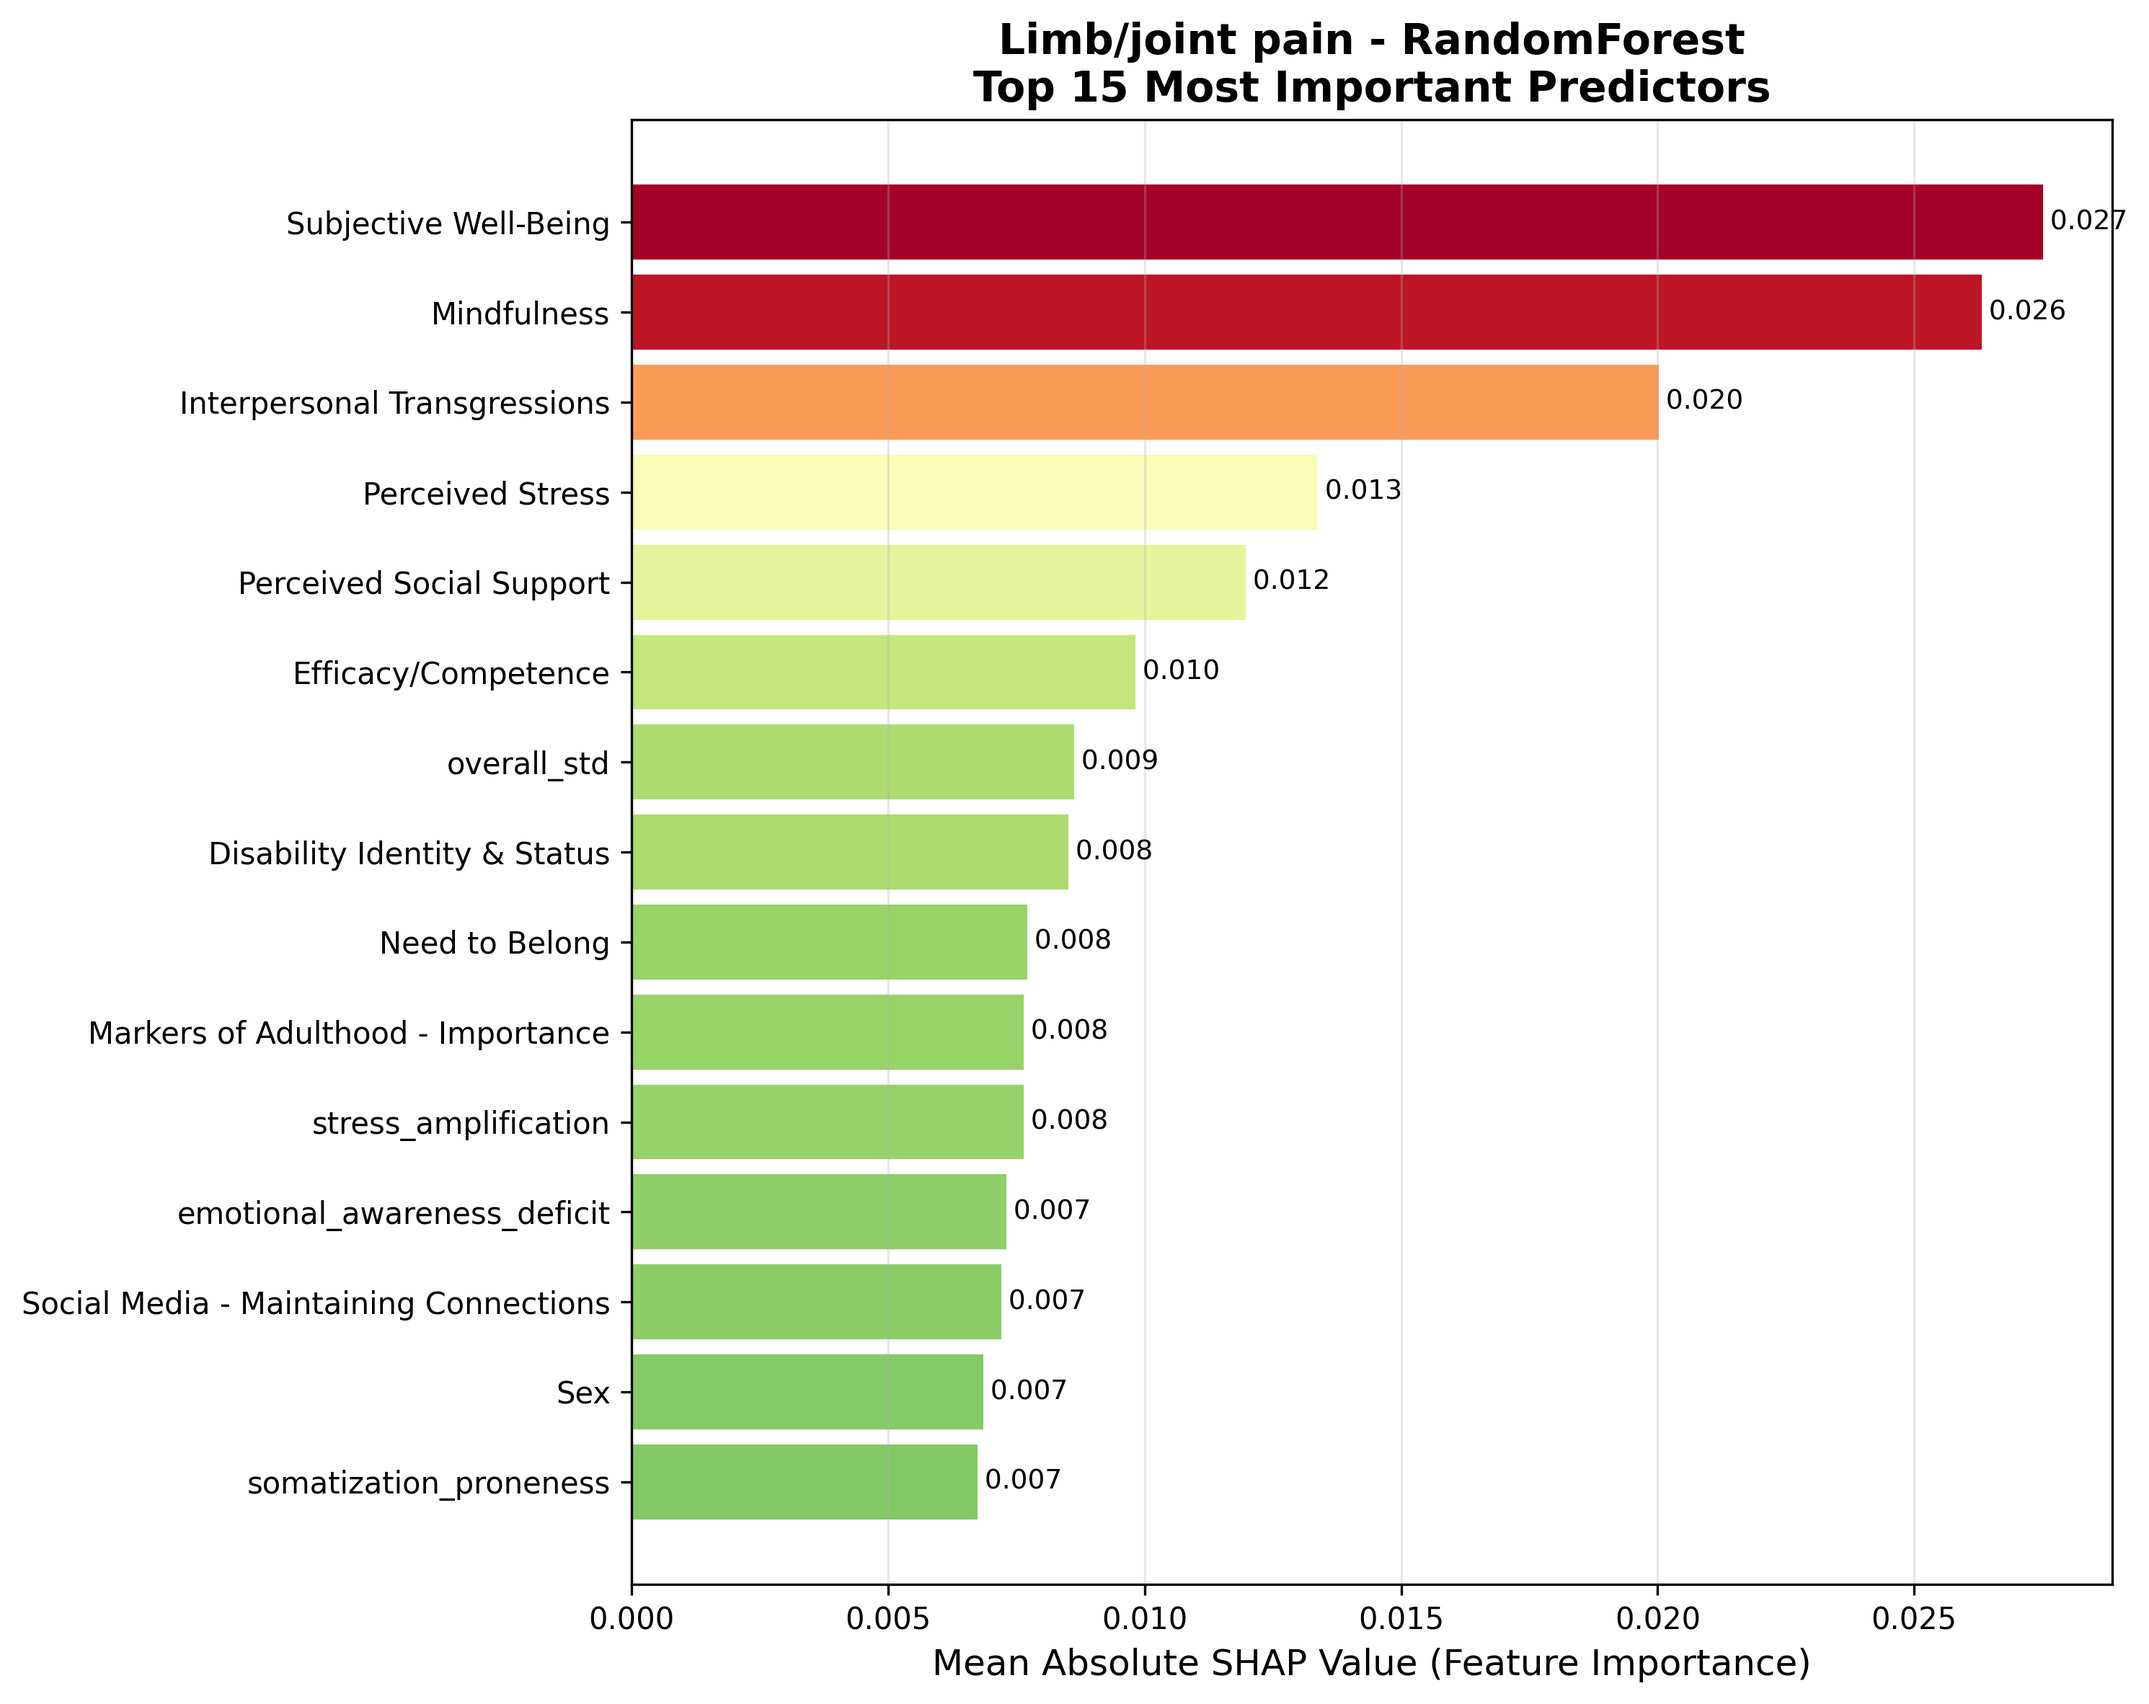
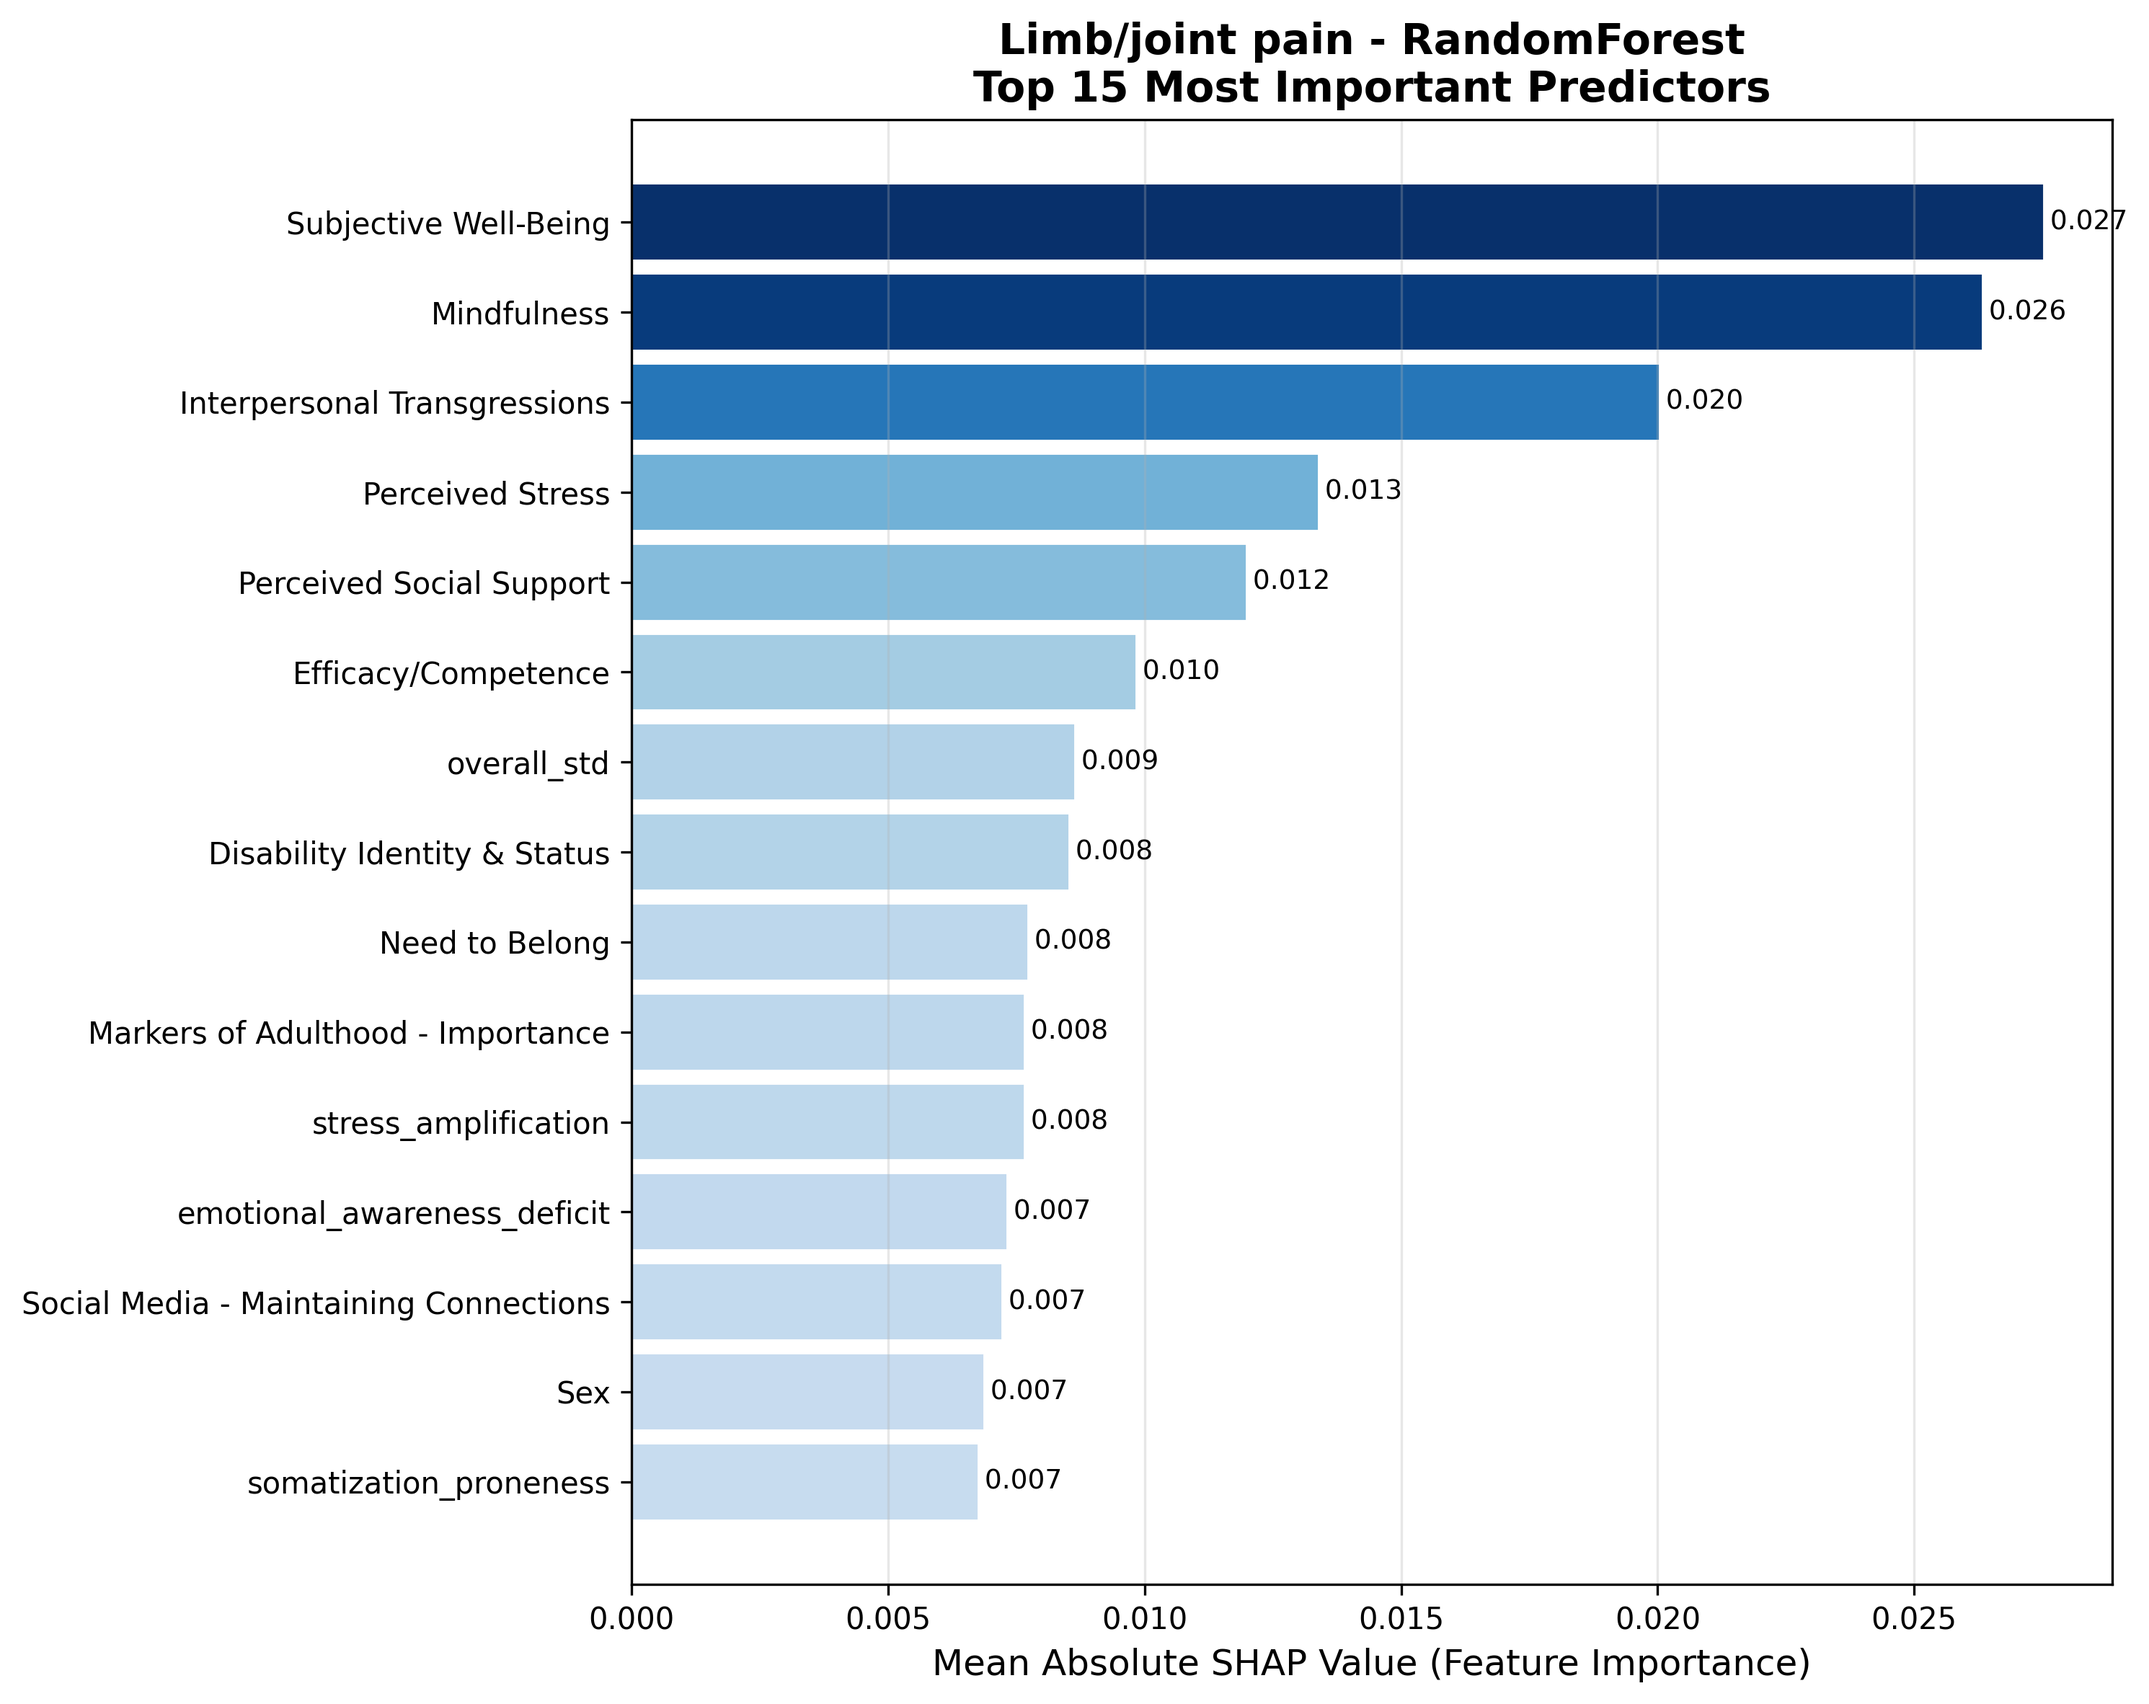
result updates

Changed region(s): [[0.2808, 0.0926, 0.9671, 0.8955]]

diff --git a/Code/shap_value.py b/Code/shap_value.py
@@ -599,7 +599,7 @@ def create_shap_plot(shap_values, X_data, feature_names, symptom_name, model_nam
         top_15 = predictor_importance.tail(15)
 
         fig, ax = plt.subplots(figsize=(10, 8))
-        colors = plt.cm.RdYlGn_r(top_15['Mean_Abs_SHAP'] / top_15['Mean_Abs_SHAP'].max())
+        colors = plt.cm.Blues(top_15['Mean_Abs_SHAP'] / top_15['Mean_Abs_SHAP'].max())
         bars = ax.barh(range(len(top_15)), top_15['Mean_Abs_SHAP'])
 
         for bar, color in zip(bars, colors):
